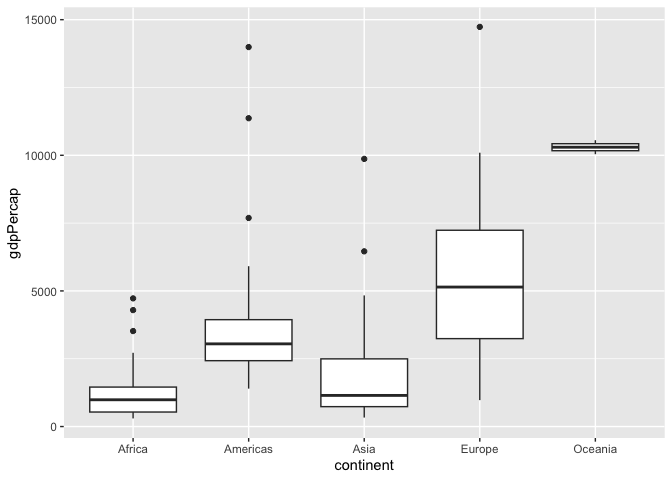
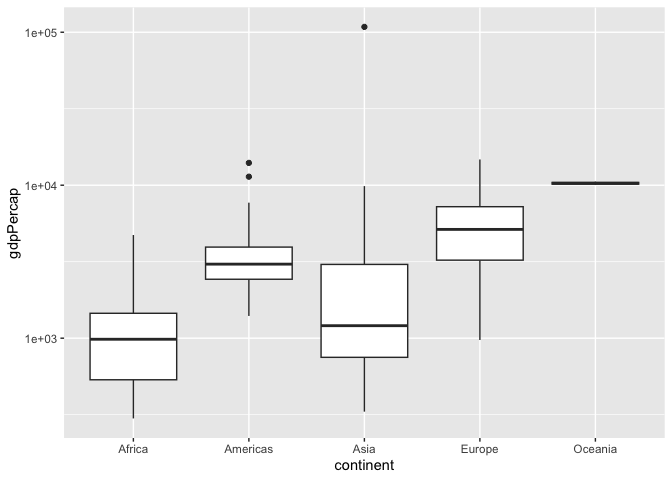
c04 gapminder revised

diff --git a/challenges/c04-gapminder-assignment.md b/challenges/c04-gapminder-assignment.md
@@ -188,9 +188,9 @@ can.
 ## TASK: Create a visual of gdpPercap vs continent
 gapminder %>%
   filter(year == year_min) %>%
-  filter(gdpPercap < 90000) %>%
   ggplot(aes(continent, gdpPercap)) +
-  geom_boxplot()
+  geom_boxplot() +
+  scale_y_log10()
 ```
 
 ![](c04-gapminder-assignment_files/figure-gfm/q2-task-1.png)<!-- -->
@@ -273,7 +273,9 @@ gapminder %>%
     data = . %>% filter(country %in% c("United States", "Kuwait", "Switzerland")),
     mapping = aes(color = country),
     size = 2
-  )
+  ) +
+  scale_y_log10() +
+  facet_wrap(~ year)
 ```
 
 ![](c04-gapminder-assignment_files/figure-gfm/q4-task-1.png)<!-- -->
